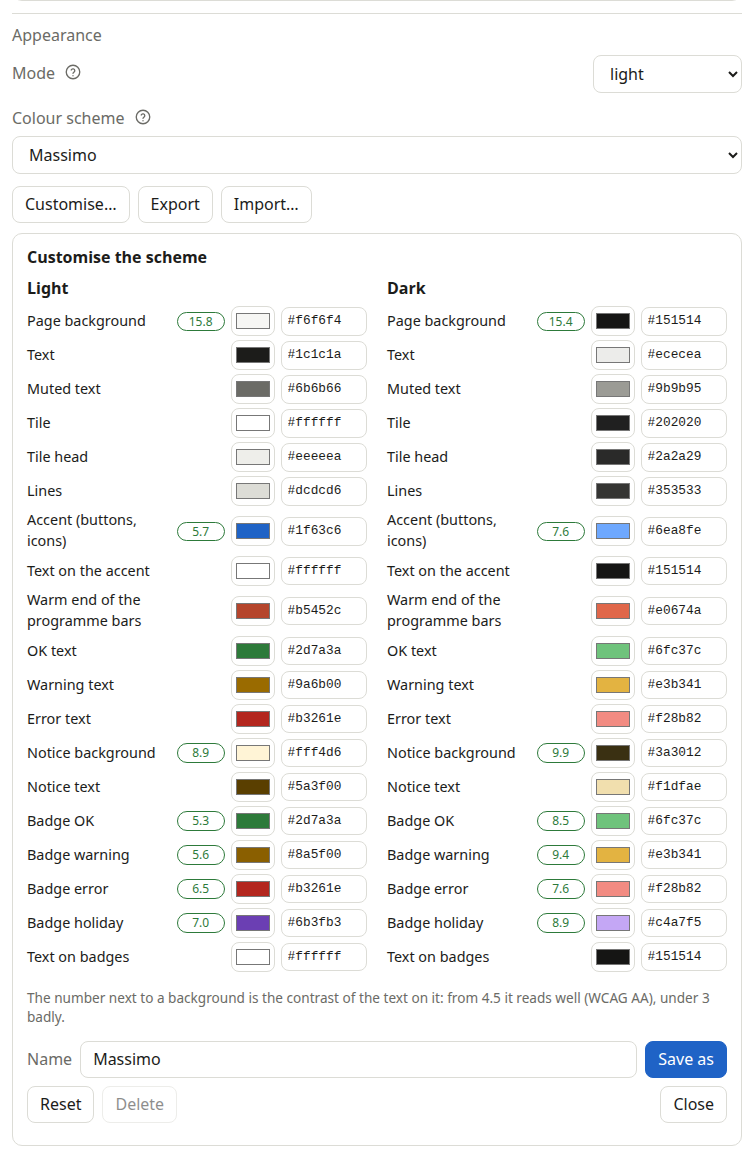
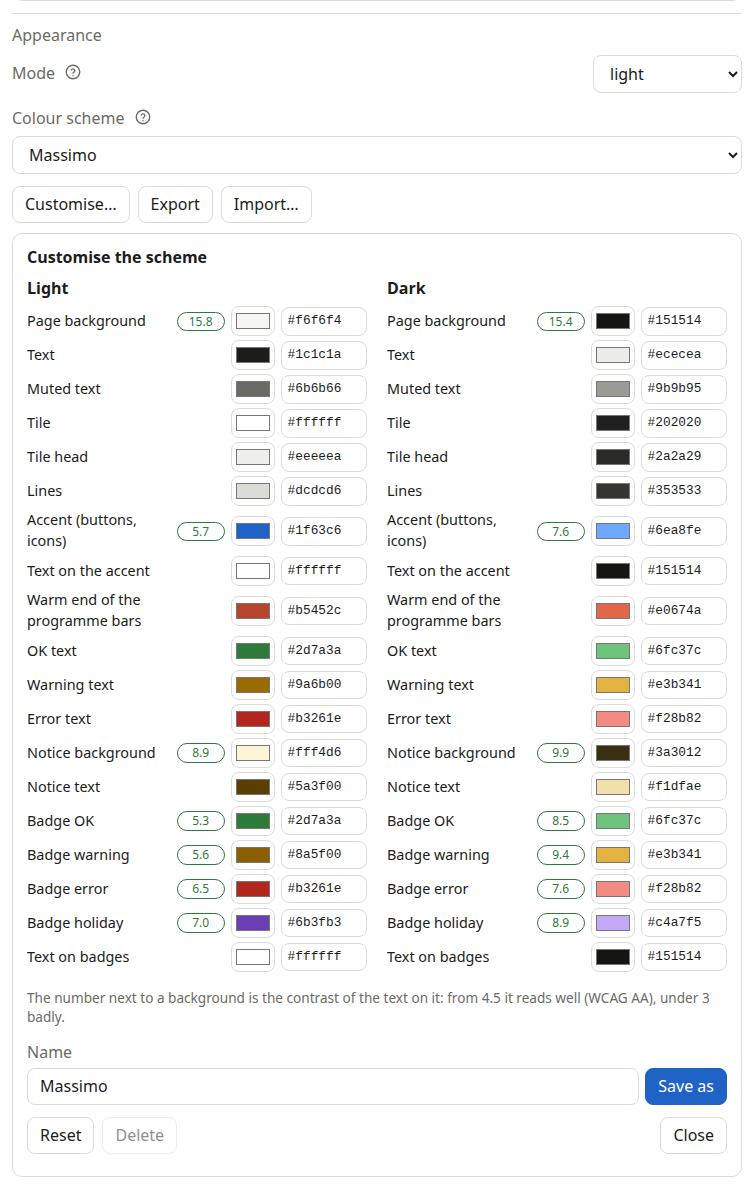
refactor(ui): the colour-scheme editor built from the components
The appearance settings, written after the other panels, used none of their helpers; they now use the components, and the editor's name row is a wide field row like the settings' text fields, as AP UiStructure v1.0, Block 3 plans for theme.js.

Key changes:
- theme.js: the name row on fieldRow (wide, the label above the name and Save as), Reset, Delete and Close on formFooter, the sets and their rows on elem; the 19 rows keep .scheme-row.
- theme.js: schemeMessage and hexMessage on showResult, the scheme choice on fillOptions, exportScheme on downloadBlob.
- theme.js: the import's file input is a filePicker beside Import, still #scheme-file with its translated aria-label; index.html loses the input.
- style.css: .scheme-name keeps only its margins and the name's width.
- docs/screenshots: the appearance shots retaken; CHANGELOG.md is unchanged, the one-row-layout bullet covers the name row.

Assisted-by: claude-code:claude-opus-5-5

diff --git a/internal/server/ui/theme.js b/internal/server/ui/theme.js
@@ -285,25 +285,11 @@ function chooseScheme(id) {
 // renderSchemeSelect fills the scheme choice: the built-in schemes by
 // their translated names, then the user's own under a group.
 function renderSchemeSelect() {
-  const sel = $("scheme-select");
-  clear(sel);
-  for (const id of Object.keys(BUILTIN_SCHEMES)) {
-    const o = document.createElement("option");
-    o.value = id;
-    o.textContent = t("appearance.scheme." + id);
-    sel.appendChild(o);
-  }
+  const options = Object.keys(BUILTIN_SCHEMES).map((id) => [id, t("appearance.scheme." + id)]);
   if (themeState.custom.length) {
-    const group = document.createElement("optgroup");
-    group.label = t("appearance.customGroup");
-    for (const c of themeState.custom) {
-      const o = document.createElement("option");
-      o.value = CUSTOM_PREFIX + c.name;
-      o.textContent = c.name;
-      group.appendChild(o);
-    }
-    sel.appendChild(group);
+    options.push({ group: t("appearance.customGroup"), options: themeState.custom.map((c) => [CUSTOM_PREFIX + c.name, c.name]) });
   }
+  const sel = fillOptions($("scheme-select"), options);
   sel.value = state.settings.scheme;
 }
 
@@ -319,9 +305,7 @@ function applyAppearance() {
 // schemeMessage shows the result of a save, delete or import under the
 // buttons; empty clears it.
 function schemeMessage(text, ok) {
-  const p = $("scheme-msg");
-  p.textContent = text;
-  p.className = "small scheme-msg" + (text ? (ok ? " ok" : " bad") : " hidden");
+  showResult($("scheme-msg"), text, ok);
 }
 
 function initAppearance() {
@@ -336,12 +320,12 @@ function initAppearance() {
     else openSchemeEditor();
   });
   $("scheme-export").addEventListener("click", exportScheme);
-  $("scheme-import").addEventListener("click", () => $("scheme-file").click());
-  $("scheme-file").addEventListener("change", (ev) => {
-    const file = ev.target.files && ev.target.files[0];
-    ev.target.value = "";
-    if (file) importSchemeFile(file);
-  });
+  const picker = filePicker("application/json,.json", importSchemeFile);
+  picker.id = "scheme-file";
+  picker.setAttribute("aria-label", t("appearance.importFile"));
+  picker.dataset.i18nAttr = "aria-label:appearance.importFile"; // for a change of language
+  $("scheme-import").after(picker);
+  $("scheme-import").addEventListener("click", () => picker.click());
   if (darkQuery) darkQuery.addEventListener("change", reapplyTheme);
 }
 
@@ -430,8 +414,7 @@ function hexMessage(field) {
   const p = $("scheme-hex-msg");
   if (!p) return;
   const bad = field || $("scheme-editor").querySelector(".scheme-hex[aria-invalid=true]");
-  p.textContent = bad ? t("appearance.hexBad", { token: bad.dataset.token, value: bad.dataset.refused }) : "";
-  p.classList.toggle("hidden", !bad);
+  showResult(p, bad ? t("appearance.hexBad", { token: bad.dataset.token, value: bad.dataset.refused }) : "", false);
 }
 
 // markHex marks a hex field as refused (the text it holds) or as good.
@@ -458,16 +441,12 @@ function markHex(field, refused) {
 // invalid, and the colour stays.
 function renderSchemeSet(mode) {
   const d = themeState.draft;
-  const fs = document.createElement("fieldset");
-  fs.className = "scheme-set";
-  fs.appendChild(textEl("legend", t("appearance." + mode)));
+  const fs = elem("fieldset", "scheme-set", textEl("legend", t("appearance." + mode)));
   const badges = {};
   const refresh = () => {
     for (const [k, b] of Object.entries(badges)) fillContrast(b, d[mode], k);
   };
   for (const k of THEME_TOKENS) {
-    const row = document.createElement("div");
-    row.className = "scheme-row";
     const input = document.createElement("input");
     input.type = "color";
     input.id = "scheme-" + mode + "-" + k;
@@ -521,21 +500,14 @@ function renderSchemeSet(mode) {
         markHex(hex, null);
       }
     });
-    row.appendChild(label);
+    const badge = elem("span", CONTRAST_PAIRS[k] ? "" : "contrast none");
     if (CONTRAST_PAIRS[k]) {
-      const b = document.createElement("span");
-      b.setAttribute("role", "img"); // so the label is read out
-      badges[k] = b;
-      row.appendChild(b);
+      badge.setAttribute("role", "img"); // so the label is read out
+      badges[k] = badge;
     } else {
-      const gap = document.createElement("span");
-      gap.className = "contrast none";
-      gap.setAttribute("aria-hidden", "true");
-      row.appendChild(gap);
+      badge.setAttribute("aria-hidden", "true");
     }
-    row.appendChild(input);
-    row.appendChild(hex);
-    fs.appendChild(row);
+    fs.appendChild(elem("div", "scheme-row", label, badge, input, hex));
   }
   refresh();
   return fs;
@@ -551,23 +523,14 @@ function renderSchemeEditor() {
   const title = textEl("h3", t("appearance.editorTitle"));
   title.id = "scheme-editor-title";
   ed.appendChild(title);
-  const sets = document.createElement("div");
-  sets.className = "scheme-sets";
-  sets.appendChild(renderSchemeSet("light"));
-  sets.appendChild(renderSchemeSet("dark"));
-  ed.appendChild(sets);
+  ed.appendChild(elem("div", "scheme-sets", renderSchemeSet("light"), renderSchemeSet("dark")));
   const hexMsg = textEl("p", "", "small scheme-msg bad hidden");
   hexMsg.id = "scheme-hex-msg";
   hexMsg.setAttribute("role", "status");
   ed.appendChild(hexMsg);
   ed.appendChild(textEl("p", t("appearance.contrastNote"), "muted small"));
-  const nameRow = document.createElement("div");
-  nameRow.className = "scheme-name";
-  const nameLabel = textEl("label", t("appearance.name"), "muted");
-  nameLabel.htmlFor = "scheme-name";
   const name = document.createElement("input");
   name.type = "text";
-  name.id = "scheme-name";
   name.maxLength = SCHEME_NAME_MAX;
   name.value = d.name;
   name.addEventListener("keydown", (ev) => {
@@ -576,25 +539,13 @@ function renderSchemeEditor() {
       saveSchemeDraft();
     }
   });
-  nameRow.appendChild(nameLabel);
-  nameRow.appendChild(name);
-  nameRow.appendChild(button(t("appearance.saveAs"), "primary", saveSchemeDraft));
+  const nameRow = fieldRow(t("appearance.name"), elem("span", "inline", name, button(t("appearance.saveAs"), "primary", saveSchemeDraft)), { id: "scheme-name", wide: true });
+  nameRow.classList.add("scheme-name");
   ed.appendChild(nameRow);
-  const actions = document.createElement("div");
-  actions.className = "actions";
-  const left = document.createElement("span");
-  left.className = "actions-left";
-  left.appendChild(button(t("appearance.reset"), "", resetSchemeDraft));
   const del = button(t("action.delete"), "", deleteSchemeDraft);
   del.id = "scheme-delete";
   del.disabled = !base || base.builtin;
-  left.appendChild(del);
-  const right = document.createElement("span");
-  right.className = "actions-right";
-  right.appendChild(button(t("action.close"), "", closeSchemeEditor));
-  actions.appendChild(left);
-  actions.appendChild(right);
-  ed.appendChild(actions);
+  ed.appendChild(formFooter({ cancel: closeSchemeEditor, cancelLabel: t("action.close"), extra: [button(t("appearance.reset"), "", resetSchemeDraft), del] }));
 }
 
 // --- export and import ------------------------------------------------
@@ -605,20 +556,11 @@ function fileSlug(name) {
 }
 
 // exportScheme downloads the draft, or else the chosen scheme, as a
-// file: a blob: link with the download attribute, which the page's
-// Content-Security-Policy allows.
+// file (downloadBlob).
 function exportScheme() {
   const s = themeState.draft || schemeById(state.settings.scheme) || schemeById(DEFAULT_SCHEME);
   const doc = schemeDoc(s);
-  const blob = new Blob([JSON.stringify(doc, null, 1) + "\n"], { type: "application/json" });
-  const url = URL.createObjectURL(blob);
-  const a = document.createElement("a");
-  a.href = url;
-  a.download = "massimo-scheme-" + fileSlug(doc.name) + ".json";
-  document.body.appendChild(a);
-  a.click();
-  a.remove();
-  setTimeout(() => URL.revokeObjectURL(url), 1000);
+  downloadBlob("massimo-scheme-" + fileSlug(doc.name) + ".json", new Blob([JSON.stringify(doc, null, 1) + "\n"], { type: "application/json" }));
 }
 
 // importSchemeFile reads a scheme file, keeps it under its name and

diff --git a/internal/server/ui/index.html b/internal/server/ui/index.html
@@ -132,7 +132,6 @@
           <button type="button" id="scheme-customise" aria-expanded="false" aria-controls="scheme-editor" data-i18n="appearance.customise">Customise…</button>
           <button type="button" id="scheme-export" data-i18n="appearance.export">Export</button>
           <button type="button" id="scheme-import" data-i18n="appearance.import">Import…</button>
-          <input type="file" id="scheme-file" class="hidden" accept="application/json,.json" aria-label="scheme file to import" data-i18n-attr="aria-label:appearance.importFile">
         </div>
         <p id="scheme-msg" class="small scheme-msg hidden" role="status"></p>
         <div id="scheme-editor" class="panel scheme-editor hidden" role="region" aria-labelledby="scheme-editor-title"></div>

diff --git a/internal/server/ui/style.css b/internal/server/ui/style.css
@@ -313,7 +313,8 @@ body.expert #clock-plain { display: none; }
 .contrast.warn { color: var(--warn); border-color: var(--warn); }
 .contrast.bad { color: var(--bad); border-color: var(--bad); }
 .contrast.none { border-color: transparent; cursor: default; }
-.scheme-name { display: flex; flex-wrap: wrap; align-items: center; gap: 8px; margin: 12px 0 8px; }
+.scheme-name { margin: 12px 0 8px; }
+.scheme-name .inline { flex-wrap: wrap; }
 .scheme-name input[type="text"] { flex: 1 1 10em; min-width: 0; }
 .panel .actions { display: flex; justify-content: flex-end; gap: 8px; margin-top: 8px; }
 /* the summary of a details panel (components.js detailsPanel) */
